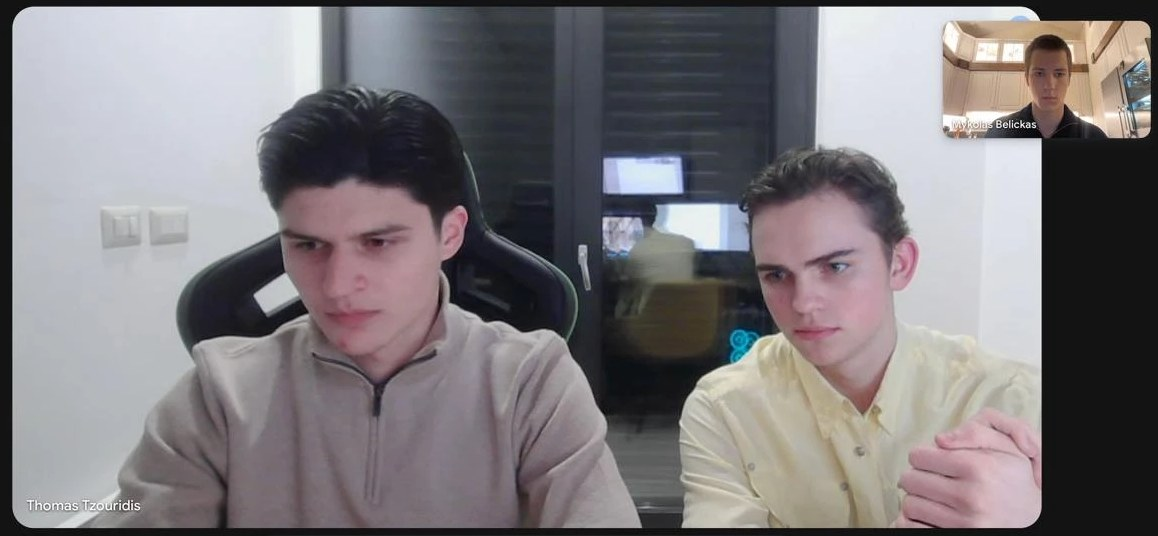
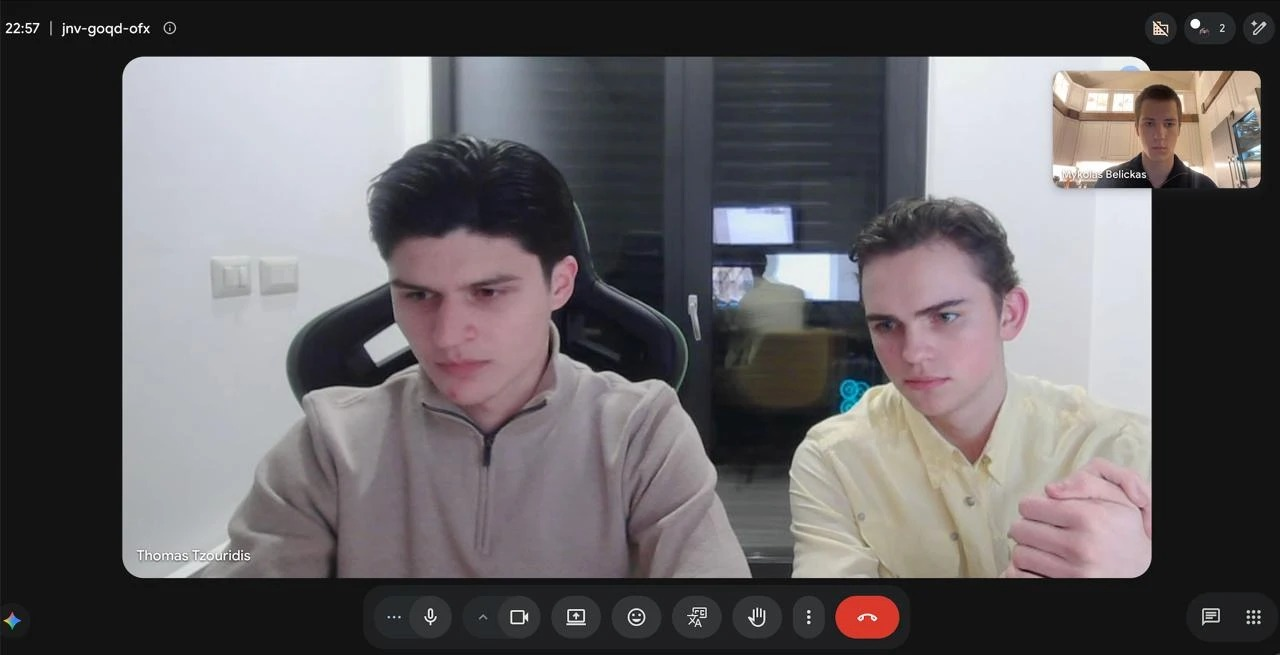
ActiScale slide: exact Google Meet screenshot, straight, no frame

diff --git a/_src/template.html b/_src/template.html
@@ -81,8 +81,8 @@ p{margin:0}
 .cases{display:grid;grid-template-columns:repeat(3,1fr);gap:1.4cqw}
 .proofs .pl{margin-top:.8cqw;font-size:1.6cqw;line-height:1.45;color:#e8e3d8;max-width:70ch}html.sphone .proofs .pl{font-size:14px;margin-top:8px}
 .acs{padding-right:40cqw}.acs .stats,.acs .cases{grid-template-columns:repeat(2,1fr)}
-.acs .call{position:absolute;right:5cqw;top:50%;transform:translateY(-50%) rotate(2deg);width:32cqw;margin:0;padding:.7cqw .7cqw 1.6cqw;background:#f4f1ea;box-shadow:0 2cqw 5cqw rgba(0,0,0,.6)}.acs .call img{display:block;width:100%;aspect-ratio:1158/536;object-fit:cover}
-html.sphone .acs{padding-right:18px}html.sphone .acs .stats,html.sphone .acs .cases{grid-template-columns:1fr 1fr}html.sphone .acs .call{position:static;transform:rotate(1.5deg);width:78%;align-self:center;margin-top:16px;padding:6px 6px 18px}
+.acs .call{position:absolute;right:5cqw;top:50%;transform:translateY(-50%);width:33cqw;margin:0}.acs .call img{display:block;width:100%;height:auto}
+html.sphone .acs{padding-right:18px}html.sphone .acs .stats,html.sphone .acs .cases{grid-template-columns:1fr 1fr}html.sphone .acs .call{position:static;transform:none;width:100%;margin-top:16px}
 .case{display:flex;flex-direction:column;gap:.5cqw;background:var(--tile);padding:1.3cqw 1.4cqw 1.4cqw;border-top:.25cqw solid var(--hi)}
 .case .yr{font:600 .9cqw var(--mono);color:var(--muted);letter-spacing:.1em;text-transform:uppercase}
 .case b{font:800 2.3cqw/1 var(--mono);color:#fff;letter-spacing:-.02em;font-variant-numeric:tabular-nums}

diff --git a/story-it-sabapathy-narayanan/index.html b/story-it-sabapathy-narayanan/index.html
@@ -81,8 +81,8 @@ p{margin:0}
 .cases{display:grid;grid-template-columns:repeat(3,1fr);gap:1.4cqw}
 .proofs .pl{margin-top:.8cqw;font-size:1.6cqw;line-height:1.45;color:#e8e3d8;max-width:70ch}html.sphone .proofs .pl{font-size:14px;margin-top:8px}
 .acs{padding-right:40cqw}.acs .stats,.acs .cases{grid-template-columns:repeat(2,1fr)}
-.acs .call{position:absolute;right:5cqw;top:50%;transform:translateY(-50%) rotate(2deg);width:32cqw;margin:0;padding:.7cqw .7cqw 1.6cqw;background:#f4f1ea;box-shadow:0 2cqw 5cqw rgba(0,0,0,.6)}.acs .call img{display:block;width:100%;aspect-ratio:1158/536;object-fit:cover}
-html.sphone .acs{padding-right:18px}html.sphone .acs .stats,html.sphone .acs .cases{grid-template-columns:1fr 1fr}html.sphone .acs .call{position:static;transform:rotate(1.5deg);width:78%;align-self:center;margin-top:16px;padding:6px 6px 18px}
+.acs .call{position:absolute;right:5cqw;top:50%;transform:translateY(-50%);width:33cqw;margin:0}.acs .call img{display:block;width:100%;height:auto}
+html.sphone .acs{padding-right:18px}html.sphone .acs .stats,html.sphone .acs .cases{grid-template-columns:1fr 1fr}html.sphone .acs .call{position:static;transform:none;width:100%;margin-top:16px}
 .case{display:flex;flex-direction:column;gap:.5cqw;background:var(--tile);padding:1.3cqw 1.4cqw 1.4cqw;border-top:.25cqw solid var(--hi)}
 .case .yr{font:600 .9cqw var(--mono);color:var(--muted);letter-spacing:.1em;text-transform:uppercase}
 .case b{font:800 2.3cqw/1 var(--mono);color:#fff;letter-spacing:-.02em;font-variant-numeric:tabular-nums}
